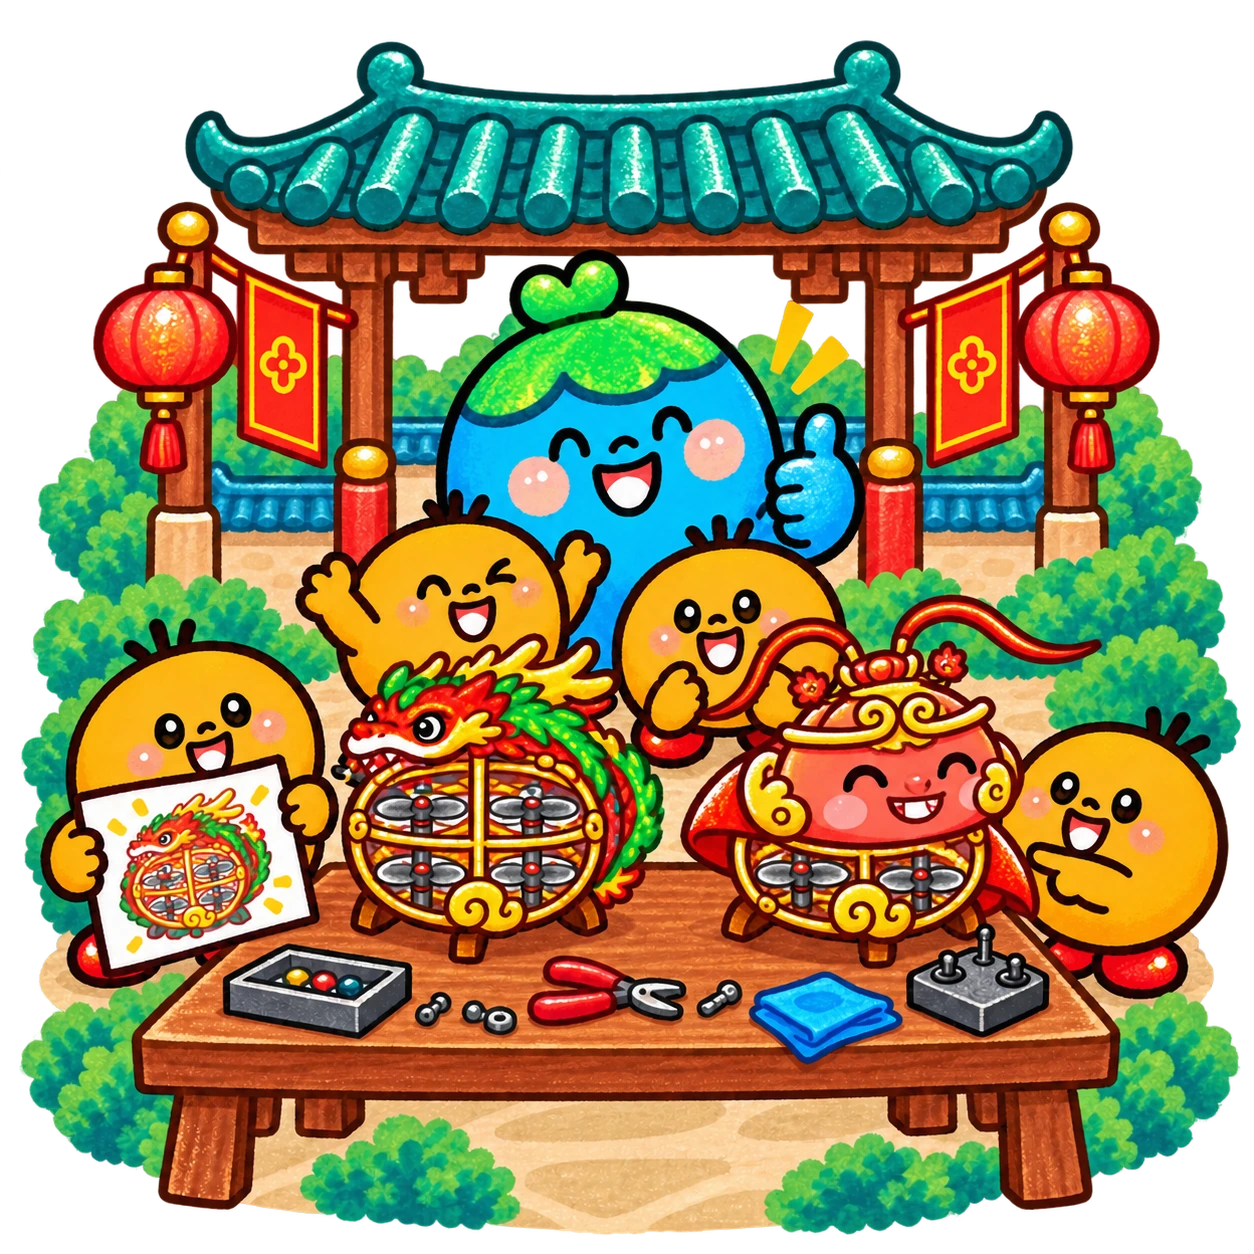
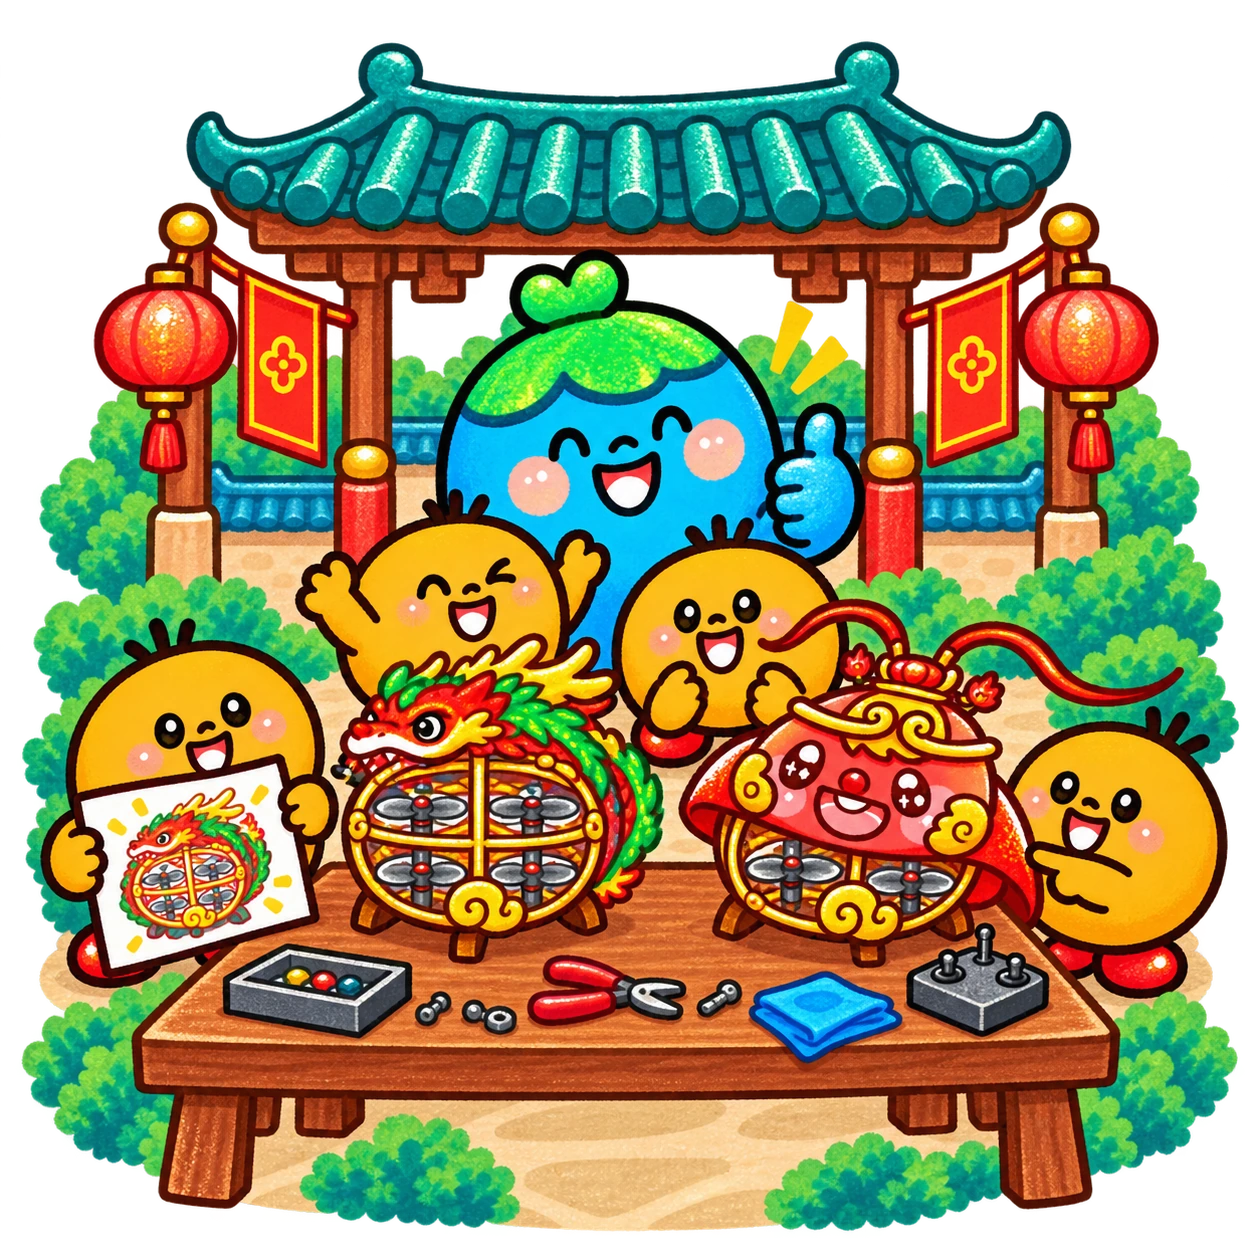
Restore flying camp artwork and limit mascot revision scope

diff --git a/2027C/index.html b/2027C/index.html
@@ -21,11 +21,11 @@
   <link rel="preload" as="image" href="assets/hero-camp-world-tablet-brush.webp?v=acting-20261013" media="(min-width:701px) and (max-width:1100px)">
   <link rel="stylesheet" href="styles.css">
   <link rel="stylesheet" href="readability.css">
-  <link rel="stylesheet" href="festival.css?v=acting-20261013">
+  <link rel="stylesheet" href="festival.css?v=scope-restore-20261013">
   <link rel="stylesheet" href="typography.css">
   <link rel="stylesheet" href="coupon-theme.css">
   <script src="camp-data.js" defer></script>
-  <script src="app.js?v=acting-20261013" defer></script>
+  <script src="app.js?v=scope-restore-20261013" defer></script>
 </head>
 <body>
   <a class="skip-link" href="#main">跳至主要內容</a>
@@ -183,7 +183,7 @@
 
     <section id="faq" class="faq-section page-width section-anchor" aria-labelledby="faqTitle"><div class="section-heading"><div><p class="eyebrow">A LITTLE HELP FOR PARENTS</p><h2 id="faqTitle">家長 Q&A</h2></div><p>想知道的，先幫你整理好了。<br>還有問題，隨時到 LINE 找我們。</p></div><div class="faq-layout"><div id="faqCategories" class="faq-categories" role="group" aria-label="常見問題分類"></div><div id="faqList" class="faq-list"></div></div><p class="faq-bottom">孩子有特別的需求，或不知道怎麼選？<a href="https://lin.ee/zFqqFzQ" target="_blank" rel="noopener">和我們聊聊 ↗</a></p></section>
 
-    <section id="contact" class="contact-section section-anchor" aria-labelledby="contactTitle"><div class="page-width contact-grid"><div class="contact-visual"><img src="assets/contact-welcome-brush.webp?v=acting-20261013" alt="大聖與四位小橘人學員在年節教室門口歡迎你，分享戲偶和祥龍積木作品" width="1536" height="1024" loading="lazy"><span>在布拉克星球，一起長出大大的想像。</span></div><div><p class="eyebrow">COME PLAY WITH US</p><h2 id="contactTitle">在台南，<br>等孩子來玩。</h2><div class="classrooms" id="classrooms"></div><a href="https://lin.ee/zFqqFzQ" target="_blank" rel="noopener" class="button">LINE 聯絡教室 <svg aria-hidden="true"><use href="#arrow"/></svg></a></div></div></section>
+    <section id="contact" class="contact-section section-anchor" aria-labelledby="contactTitle"><div class="page-width contact-grid"><div class="contact-visual"><img src="assets/contact-welcome-brush.webp?v=scope-restore-20261013" alt="大聖與四位小橘人學員在年節教室門口歡迎你，分享戲偶和祥龍積木作品" width="1536" height="1024" loading="lazy"><span>在布拉克星球，一起長出大大的想像。</span></div><div><p class="eyebrow">COME PLAY WITH US</p><h2 id="contactTitle">在台南，<br>等孩子來玩。</h2><div class="classrooms" id="classrooms"></div><a href="https://lin.ee/zFqqFzQ" target="_blank" rel="noopener" class="button">LINE 聯絡教室 <svg aria-hidden="true"><use href="#arrow"/></svg></a></div></div></section>
   </main>
   <footer class="site-footer page-width"><div class="footer-top"><a class="brand" href="#top"><img src="assets/brand-logo.png" width="42" height="42" alt=""><span>布拉克星球<small>BLOCK PLANET</small></span></a><div><a href="https://www.facebook.com/blockplanet" target="_blank" rel="noopener">Facebook ↗</a><a href="https://www.instagram.com/blockplanet_2021" target="_blank" rel="noopener">Instagram ↗</a><a href="https://lin.ee/zFqqFzQ" target="_blank" rel="noopener">LINE ↗</a></div></div><div class="footer-bottom"><span>© 2027 布拉克星球 · 2027C 冬令營</span><button id="motionToggle" class="text-control" aria-pressed="false">暫停頁面動畫 <span aria-hidden="true">Ⅱ</span></button><a href="#top">回到頂端 ↑</a></div></footer>
   <div class="mobile-bar"><a href="#calendar">日期與費用</a><a href="https://lin.ee/zFqqFzQ" target="_blank" rel="noopener">LINE 洽詢 <span aria-hidden="true">↗</span></a></div>

diff --git a/2027C/festival.css b/2027C/festival.css
@@ -67,7 +67,7 @@ body{background-color:var(--paper);background-image:radial-gradient(#a77d4210 .6
 .story-assets-lights .culture-frame,.story-assets-lights .lamp-picture{background-image:url('assets/culture-story.webp?v=acting-20261013')}
 .drone-frame,.lego-frame,.lego-story-frame{background-size:100% 100%;background-position:center}
 .story-assets-drone-duel .dragon-sprite{background-image:url('assets/drone-sprites.webp');background-size:300% 100%;background-position:50% 0}
-.story-assets-drone-duel .monkey-sprite{background-image:url('assets/drone-monkey.webp?v=acting-20261013');background-size:100% 100%;background-position:center}
+.story-assets-drone-duel .monkey-sprite{background-image:url('assets/drone-monkey.webp?v=scope-restore-20261013');background-size:100% 100%;background-position:center}
 .scene-paused .frame-enter{animation:none!important;opacity:1;transform:none}
 #lightsFrame{margin:-9px auto -26px;max-width:480px;background-position:0 100%}
 .story-frame.frame-enter{animation:frame-enter .65s var(--ease) both}

diff --git a/2027C/app.js b/2027C/app.js
@@ -53,8 +53,8 @@
   const sceneAssetRequests = new Map();
   const imageRequests = new Map();
   const singleFrames = { drone: $('#droneFrame'), lego: $('#legoFrame') };
-  const storyImage = (name, index) => 'assets/' + name + '-frame-' + String(index + 1).padStart(2, '0') + '.webp' + (name === 'drone' ? '?v=acting-20261013' : '');
-  const duelAssets = ['assets/drone-sprites.webp', 'assets/drone-monkey.webp?v=acting-20261013', 'assets/drone-arena.webp', 'assets/drone-students.webp'];
+  const storyImage = (name, index) => 'assets/' + name + '-frame-' + String(index + 1).padStart(2, '0') + '.webp' + (name === 'drone' ? '?v=scope-restore-20261013' : '');
+  const duelAssets = ['assets/drone-sprites.webp', 'assets/drone-monkey.webp?v=scope-restore-20261013', 'assets/drone-arena.webp', 'assets/drone-students.webp'];
   let duelRequest;
   function preloadImage(src) {
     if (!imageRequests.has(src)) {
